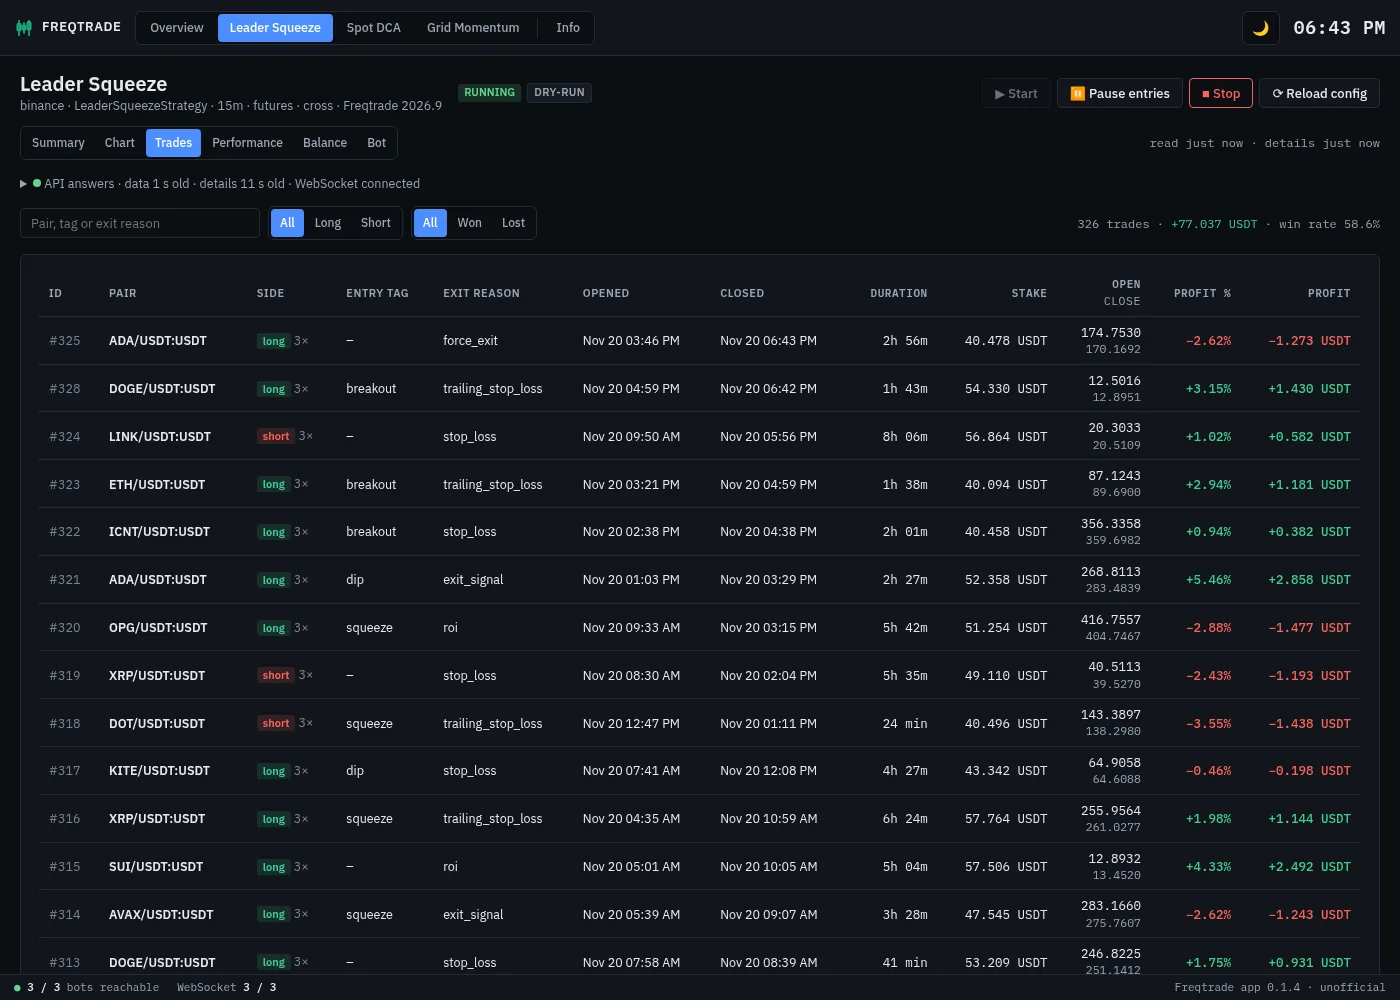
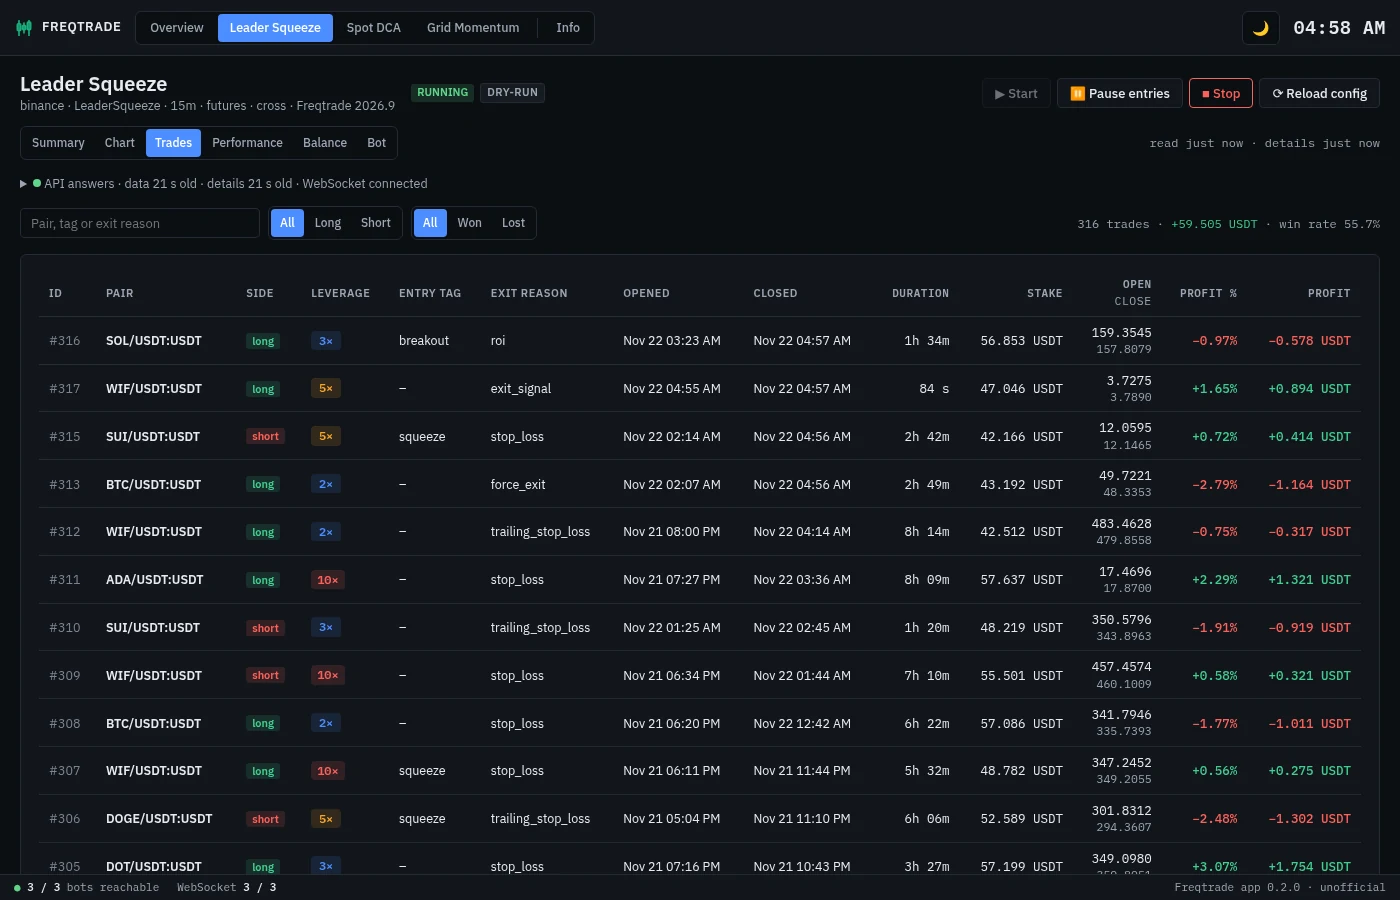
Freqtrade: leverage on the dashboard, profit and win-rate bars, best and worst trade
- Leverage: a column in the open and closed trades of futures bots (coloured from 5x and 10x), the
  position a trade holds (stake times leverage) under its stake, how far the price is from the
  liquidation price, and a Leverage tile on a futures bot's page and on the overview (average and
  highest leverage, the position, the nearest liquidation).
- A profit bar in each open trade, win-rate bars per pair and per entry tag, the best and worst
  closed trade in the performance metrics.
- An empty open-trades list says why: watching for an entry, paused, stopped, or not readable.
- The stand-in bots use different leverage per trade; new screenshots.

Ideas from DaurenNope/fricktrader's dashboard; no code taken.

diff --git a/app-freqtrade/src/web/bot.js b/app-freqtrade/src/web/bot.js
@@ -147,6 +147,17 @@ async function forceExit(tradeId) {
 // ---------------------------------------------------------------------
 // Summary
 // ---------------------------------------------------------------------
+// What the open trades hold with leverage: the position they make, and how much leverage they use
+function leverageTile(open) {
+    if (!open.length) return tile('Leverage', '–', 'no open trades');
+    const exposure = open.reduce((a, t) => a + position(t), 0), stake = open.reduce((a, t) => a + (Number(t.stake_amount) || 0), 0);
+    const levs = open.map(lev), most = Math.max(...levs);
+    const nearest = Math.min(...open.map(liquidationDistance).filter(v => v != null));
+    const cls = most >= 10 || nearest < 0.1 ? 'warn' : '';
+    return tile('Leverage', `${num(stake ? exposure / stake : 1, 1)}×<small> avg · max ${num(most, most % 1 ? 1 : 0)}×</small>`,
+        `position ${escapeHtml(money(exposure, cur(), 0))}${Number.isFinite(nearest) ? ` · liquidation ${plainPct(nearest)}` : ''}`, cls);
+}
+
 function renderSummary() {
     const d = app.bot, data = botData();
     const p = (data.profit_all && data.profit_all.all) || {};
@@ -163,6 +174,7 @@ function renderSummary() {
         tile('Win rate', plainPct(missing(p.winrate) && wl ? p.winning_trades / wl : p.winrate), `${p.winning_trades ?? 0} won · ${p.losing_trades ?? 0} lost`),
         tile('Balance', amountHtml(bal.total_bot, cur(), dec()), `start ${escapeHtml(bm(bal.starting_capital))}`),
         tile('Drawdown', plainPct(p.current_drawdown, 2), `max ${plainPct(p.max_drawdown, 2)} · ${escapeHtml(bm(p.max_drawdown_abs))}`, ddCls),
+        ...(app.bot.config.trading_mode === 'futures' ? [leverageTile(data.status || [])] : []),
         tile('Best pair', `<span style="font-size:18px">${escapeHtml(p.best_pair || '–')}</span>`, p.best_pair ? `${pnl(pct(p.best_pair_profit_ratio), p.best_pair_profit_ratio)} · ${escapeHtml(bsm(p.best_pair_profit_abs))}` : ''),
     ].join('');
     renderCumulative();
@@ -269,30 +281,37 @@ function renderOpenTrades() {
     const canExit = !readOnly() && app.bot.connected;
     const total = trades.reduce((a, t) => a + (missing(t.total_profit_abs) ? t.profit_abs || 0 : t.total_profit_abs), 0);
     document.getElementById('bot-open-hint').innerHTML = trades.length ? `${trades.length} open · ${pnl(escapeHtml(bsm(total)), total)}` : '';
+    const largest = Math.max(0, ...trades.map(t => Math.abs(t.profit_ratio || 0)));
     const rows = trades.map(t => {
         const profit = missing(t.total_profit_abs) ? t.profit_abs : t.total_profit_abs;
         const dist = t.stoploss_current_dist_ratio;
+        const liqDist = liquidationDistance(t);
         return `<tr>
             ${td('#' + t.trade_id, 'muted')}
             ${td(`<b>${escapeHtml(t.pair)}</b>${t.has_open_orders ? ' <span class="badge warn">order open</span>' : ''}`)}
-            ${td(`${sideTag(t.is_short)}${t.leverage && t.leverage !== 1 ? ` <span class="muted">${num(t.leverage, 0)}×</span>` : ''}`)}
+            ${td(sideTag(t.is_short))}
+            ${futures ? td(levTag(t)) : ''}
             ${td(escapeHtml(t.enter_tag || '–'))}
             ${td(`${escapeHtml(fmtDateTime(ms(t.open_timestamp)))}<span class="sub">${escapeHtml(fmtDuration(Date.now() / 1000 - ms(t.open_timestamp)))}</span>`)}
-            ${td(bm(t.stake_amount), 'n')}
+            ${td(futures ? `${bm(t.stake_amount)}<span class="sub">${escapeHtml(bm(position(t)))}</span>` : bm(t.stake_amount), 'n')}
             ${td(`${price(t.open_rate)}<span class="sub">${price(t.current_rate)}</span>`, 'n')}
             ${td(`${price(t.stop_loss_abs)}<span class="sub">${missing(dist) ? '' : pct(dist)}</span>`, 'n')}
-            ${futures ? td(price(t.liquidation_price), 'n') : ''}
-            ${td(pct(t.profit_ratio), 'n ' + pnlClass(t.profit_ratio))}
+            ${futures ? td(`${price(t.liquidation_price)}<span class="sub ${liqDist != null && liqDist < 0.1 ? 'neg' : ''}">${liqDist == null ? '' : plainPct(liqDist) + ' away'}</span>`, 'n') : ''}
+            ${td(pct(t.profit_ratio) + pnlBar(t.profit_ratio, largest), 'n ' + pnlClass(t.profit_ratio))}
             ${td(bsm(profit), 'n ' + pnlClass(profit))}
             ${canExit ? td(`<button type="button" class="btn btn-small" onclick="forceExit(${Number(t.trade_id)})" title="Close this trade now at the market">Exit</button>`) : ''}
         </tr>`;
     });
-    const head = [{label: 'ID'}, {label: 'Pair'}, {label: 'Side'}, {label: 'Entry tag'}, {label: 'Opened'}, {label: 'Stake', n: 1},
+    const head = [{label: 'ID'}, {label: 'Pair'}, {label: 'Side'}, ...(futures ? [{label: 'Leverage'}] : []), {label: 'Entry tag'}, {label: 'Opened'},
+        {label: futures ? 'Stake<span class="sub">position</span>' : 'Stake', n: 1},
         {label: 'Open<span class="sub">now</span>', n: 1}, {label: 'Stop-loss<span class="sub">distance</span>', n: 1}];
-    if (futures) head.push({label: 'Liquidation', n: 1});
+    if (futures) head.push({label: 'Liquidation<span class="sub">distance</span>', n: 1});
     head.push({label: 'Profit %', n: 1}, {label: 'Profit', n: 1});
     if (canExit) head.push({label: ''});
-    document.getElementById('bot-open').innerHTML = table(head, rows, {empty: 'No open trades'});
+    const state = app.bot.config.state;
+    document.getElementById('bot-open').innerHTML = table(head, rows, {empty: 'No open trades',
+        emptySub: !app.bot.connected ? 'The bot can\'t be read right now.' : state === 'running' ? 'The bot is watching the market for its next entry.'
+            : state === 'paused' ? 'The bot is paused: it opens no new trades.' : 'The bot is stopped: it opens no trades.'});
 }
 
 // ---------------------------------------------------------------------
@@ -319,12 +338,14 @@ function renderTrades() {
     const pages = Math.max(1, Math.ceil(list.length / TRADES_PER_PAGE));
     trFilter.page = Math.min(trFilter.page, pages - 1);
     const shown = list.slice(trFilter.page * TRADES_PER_PAGE, (trFilter.page + 1) * TRADES_PER_PAGE);
+    const futures = app.bot.config.trading_mode === 'futures';
     const rows = shown.map(t => {
         const opened = ms(t.open_timestamp), closed = ms(t.close_timestamp);
         return `<tr>
             ${td('#' + t.trade_id, 'muted')}
             ${td(`<b>${escapeHtml(t.pair)}</b>`)}
-            ${td(`${sideTag(t.is_short)}${t.leverage && t.leverage !== 1 ? ` <span class="muted">${num(t.leverage, 0)}×</span>` : ''}`)}
+            ${td(sideTag(t.is_short))}
+            ${futures ? td(levTag(t)) : ''}
             ${td(escapeHtml(t.enter_tag || '–'))}
             ${td(escapeHtml(t.exit_reason || '–'))}
             ${td(escapeHtml(fmtDateTime(opened)))}
@@ -337,7 +358,7 @@ function renderTrades() {
         </tr>`;
     });
     document.getElementById('tr-table').innerHTML = table([
-        {label: 'ID'}, {label: 'Pair'}, {label: 'Side'}, {label: 'Entry tag'}, {label: 'Exit reason'}, {label: 'Opened'}, {label: 'Closed'},
+        {label: 'ID'}, {label: 'Pair'}, {label: 'Side'}, ...(futures ? [{label: 'Leverage'}] : []), {label: 'Entry tag'}, {label: 'Exit reason'}, {label: 'Opened'}, {label: 'Closed'},
         {label: 'Duration', n: 1}, {label: 'Stake', n: 1}, {label: 'Open<span class="sub">close</span>', n: 1}, {label: 'Profit %', n: 1}, {label: 'Profit', n: 1},
     ], rows, {empty: all.length ? 'No trades match' : 'No closed trades yet'});
     document.getElementById('tr-pager').innerHTML = list.length > TRADES_PER_PAGE ? `
@@ -373,6 +394,15 @@ function renderPerformance() {
     renderTags();
 }
 
+// The best and the worst closed trade, from the trades the page holds, in the chosen direction
+function bestWorst() {
+    const list = closedByTime().filter(t => pfDirection === 'all' || (pfDirection === 'short') === Boolean(t.is_short));
+    if (!list.length) return [];
+    const by = list.slice().sort((a, b) => (a.profit_ratio || 0) - (b.profit_ratio || 0));
+    const show = t => `${pnl(pct(t.profit_ratio), t.profit_ratio)} <span class="muted">${escapeHtml(t.pair)} #${t.trade_id} · ${escapeHtml(bsm(t.profit_abs))} · ${escapeHtml(fmtDay(ms(t.close_timestamp)))}</span>`;
+    return [['Best trade', show(by[by.length - 1])], ['Worst trade', show(by[0])]];
+}
+
 function renderPfMetrics() {
     const p = (botData().profit_all || {})[pfDirection] || {};
     const when = v => v ? escapeHtml(fmtDateTime(ms(v))) : '–';
@@ -385,6 +415,7 @@ function renderPfMetrics() {
         ['Profit factor', ratio(p.profit_factor)],
         ['Expectancy', `${escapeHtml(bsm(p.expectancy))} <span class="muted">(ratio ${ratio(p.expectancy_ratio)})</span>`],
         ['Average duration', escapeHtml(p.avg_duration || '–')],
+        ...bestWorst(),
         ['Best pair', p.best_pair ? `${escapeHtml(p.best_pair)} <span class="muted">${pct(p.best_pair_profit_ratio)} · ${escapeHtml(bsm(p.best_pair_profit_abs))}</span>` : '–'],
         ['CAGR', missing(p.cagr) ? '–' : pnl(pct(p.cagr), p.cagr)],
         ['Sharpe / Sortino', `${ratio(p.sharpe)} / ${ratio(p.sortino)}`],
@@ -432,20 +463,26 @@ function avgPct(row) {
 function renderPairs() {
     const pairs = (botData().performance || []).slice().sort((a, b) => (b.profit_abs || 0) - (a.profit_abs || 0));
     const max = Math.max(1e-9, ...pairs.map(p => Math.abs(p.profit_abs || 0)));
+    const won = winsBy(closedByTime(), t => t.pair);
     const rows = pairs.map(p => {
         const share = Math.abs(p.profit_abs || 0) / max * 50;
         const bar = `<div class="cell-bar"><span class="mid"></span><i style="${p.profit_abs >= 0 ? `left:50%;width:${share}%;background:var(--pos)` : `right:50%;width:${share}%;background:var(--neg)`}"></i></div>`;
-        return `<tr>${td(`<b>${escapeHtml(p.pair)}</b>`)}${td(num(p.count), 'n')}${td(pct(avgPct(p)), 'n ' + pnlClass(avgPct(p)))}${td(bsm(p.profit_abs), 'n ' + pnlClass(p.profit_abs))}${td(bar)}</tr>`;
+        const w = won.get(p.pair);
+        return `<tr>${td(`<b>${escapeHtml(p.pair)}</b>`)}${td(num(p.count), 'n')}${td(w ? winBar(w.wins, w.count) : '–', 'n')}${td(pct(avgPct(p)), 'n ' + pnlClass(avgPct(p)))}${td(bsm(p.profit_abs), 'n ' + pnlClass(p.profit_abs))}${td(bar)}</tr>`;
     });
-    document.getElementById('pf-pairs').innerHTML = table([{label: 'Pair'}, {label: 'Trades', n: 1}, {label: 'Avg profit %', n: 1}, {label: 'Profit', n: 1}, {label: ''}],
+    document.getElementById('pf-pairs').innerHTML = table([{label: 'Pair'}, {label: 'Trades', n: 1}, {label: 'Win rate', n: 1}, {label: 'Avg profit %', n: 1}, {label: 'Profit', n: 1}, {label: ''}],
         rows, {empty: 'No closed trades yet'});
 }
 
 function renderTags() {
     const data = botData();
     const entries = (data.entries || []).slice().sort((a, b) => (b.profit_abs || 0) - (a.profit_abs || 0));
-    document.getElementById('pf-entries').innerHTML = table([{label: 'Entry tag'}, {label: 'Trades', n: 1}, {label: 'Avg %', n: 1}, {label: 'Profit', n: 1}],
-        entries.map(e => `<tr>${td(escapeHtml(e.enter_tag || 'Other'))}${td(num(e.count), 'n')}${td(pct(avgPct(e)), 'n ' + pnlClass(avgPct(e)))}${td(bsm(e.profit_abs), 'n ' + pnlClass(e.profit_abs))}</tr>`),
+    const tagWins = winsBy(closedByTime(), t => t.enter_tag || 'Other');
+    document.getElementById('pf-entries').innerHTML = table([{label: 'Entry tag'}, {label: 'Trades', n: 1}, {label: 'Win rate', n: 1}, {label: 'Avg %', n: 1}, {label: 'Profit', n: 1}],
+        entries.map(e => {
+            const w = tagWins.get(e.enter_tag || 'Other');
+            return `<tr>${td(escapeHtml(e.enter_tag || 'Other'))}${td(num(e.count), 'n')}${td(w ? winBar(w.wins, w.count) : '–', 'n')}${td(pct(avgPct(e)), 'n ' + pnlClass(avgPct(e)))}${td(bsm(e.profit_abs), 'n ' + pnlClass(e.profit_abs))}</tr>`;
+        }),
         {empty: data.entries ? 'No entry tags yet' : 'This Freqtrade version doesn\'t report entry tags'});
     const reasons = (data.stats && data.stats.exit_reasons) || {};
     const exits = (data.exits || []).slice().sort((a, b) => (b.count || 0) - (a.count || 0));

diff --git a/app-freqtrade/src/web/overview.js b/app-freqtrade/src/web/overview.js
@@ -84,6 +84,20 @@ function renderOvNotices() {
     document.getElementById('ov-notices').innerHTML = notes.map(([kind, html]) => `<div class="setup-hint ${kind}"><span>${html}</span></div>`).join('');
 }
 
+// The futures bots' open trades together: the position they make with leverage, and the highest leverage in use
+function ovLeverageTile(up) {
+    const futures = up.filter(b => b.config.trading_mode === 'futures');
+    const open = futures.flatMap(b => b.open_trades.map(t => ({...t, cur: b.config.stake_currency})));
+    if (!open.length) return tile('Leverage', '–', `${futures.length} futures ${futures.length === 1 ? 'bot' : 'bots'}, no open trades`);
+    const exposure = byCurrency(futures, b => b.open_trades.reduce((a, t) => a + position(t), 0));
+    const stake = open.reduce((a, t) => a + (Number(t.stake_amount) || 0), 0), weighted = open.reduce((a, t) => a + position(t), 0);
+    const most = Math.max(...open.map(lev));
+    const nearest = Math.min(...open.map(liquidationDistance).filter(v => v != null));
+    return tile('Leverage', `${num(stake ? weighted / stake : 1, 1)}×<small> avg · max ${num(most, most % 1 ? 1 : 0)}×</small>`,
+        `position ${escapeHtml(currencyText(exposure, (v, c) => money(v, c, 0)))}${Number.isFinite(nearest) ? ` · liquidation ${plainPct(nearest)}` : ''}`,
+        most >= 10 || nearest < 0.1 ? 'warn' : '');
+}
+
 function renderOvTiles() {
     const all = overviewBots();
     const up = all.filter(b => b.connected);
@@ -117,6 +131,7 @@ function renderOvTiles() {
         tile('Open profit', pnl(currencyText(openProfit, tileSigned), openProfit.get(main)), 'not yet realised'),
         tile('Win rate', plainPct(wins + losses ? wins / (wins + losses) : null), `${wins} won · ${losses} lost`),
         tile('Closed trades', num(closed), Number.isFinite(first) ? `since ${escapeHtml(fmtDay(first))}` : ''),
+        ...(up.some(b => b.config.trading_mode === 'futures') ? [ovLeverageTile(up)] : []),
     ].join('');
 }
 
@@ -210,23 +225,26 @@ function renderOvEvents() {
 function renderOvOpen() {
     const trades = overviewBots().flatMap(b => b.open_trades.map(t => ({...t, bot: b})))
         .sort((a, b) => (b.open_timestamp || 0) - (a.open_timestamp || 0));
+    const anyFutures = trades.some(t => t.bot.config.trading_mode === 'futures');
     const rows = trades.map(t => {
         const c = t.bot.config, cur = c.stake_currency || '';
         const profit = missing(t.total_profit_abs) ? t.profit_abs : t.total_profit_abs;
         return `<tr onclick="switchTab('bot-${escapeHtml(t.bot.slug)}')">
             ${td(`<span style="color:${botColor(t.bot.slug)}">●</span> ${escapeHtml(t.bot.name)}`)}
             ${td(`<b>${escapeHtml(t.pair)}</b>${t.has_open_orders ? ' <span class="badge warn">order open</span>' : ''}`)}
-            ${td(`${sideTag(t.is_short)}${t.leverage && t.leverage !== 1 ? ` <span class="muted">${num(t.leverage, 0)}×</span>` : ''}`)}
+            ${td(sideTag(t.is_short))}
+            ${anyFutures ? td(c.trading_mode === 'futures' ? levTag(t) : '<span class="muted">spot</span>') : ''}
             ${td(escapeHtml(fmtAgo(ms(t.open_timestamp))))}
-            ${td(money(t.stake_amount, cur, c.stake_currency_decimals), 'n')}
+            ${td(c.trading_mode === 'futures' ? `${money(t.stake_amount, cur, c.stake_currency_decimals)}<span class="sub">${escapeHtml(money(position(t), cur, c.stake_currency_decimals))}</span>` : money(t.stake_amount, cur, c.stake_currency_decimals), 'n')}
             ${td(pct(t.profit_ratio), 'n ' + pnlClass(t.profit_ratio))}
             ${td(signedMoney(profit, cur, c.stake_currency_decimals), 'n ' + pnlClass(profit))}
         </tr>`;
     });
     document.getElementById('ov-open-hint').textContent = trades.length ? `${trades.length} on ${new Set(trades.map(t => t.bot.slug)).size} bots` : '';
     document.getElementById('ov-open').innerHTML = table([
-        {label: 'Bot'}, {label: 'Pair'}, {label: 'Side'}, {label: 'Opened'}, {label: 'Stake', n: 1}, {label: 'Profit %', n: 1}, {label: 'Profit', n: 1},
-    ], rows, {cls: 'hover', empty: 'No open trades'});
+        {label: 'Bot'}, {label: 'Pair'}, {label: 'Side'}, ...(anyFutures ? [{label: 'Leverage'}] : []), {label: 'Opened'},
+        {label: anyFutures ? 'Stake<span class="sub">position</span>' : 'Stake', n: 1}, {label: 'Profit %', n: 1}, {label: 'Profit', n: 1},
+    ], rows, {cls: 'hover', empty: 'No open trades', emptySub: 'The running bots are watching the market for their next entries.'});
 }
 
 // ---------------------------------------------------------------------

diff --git a/app-freqtrade/src/web/core.js b/app-freqtrade/src/web/core.js
@@ -120,10 +120,45 @@ function sideTag(isShort) {
 }
 function table(head, rows, opts) {
     opts = opts || {};
-    if (!rows.length) return `<div class="empty-state">${escapeHtml(opts.empty || 'Nothing here yet')}</div>`;
+    if (!rows.length) return `<div class="empty-state">${escapeHtml(opts.empty || 'Nothing here yet')}${opts.emptySub ? `<span class="empty-sub">${escapeHtml(opts.emptySub)}</span>` : ''}</div>`;
     const th = head.map(h => `<th class="${h.n ? 'n' : ''}">${h.label}</th>`).join('');
     const foot = opts.foot ? `<tfoot><tr>${opts.foot.map((c, i) => `<td class="${head[i] && head[i].n ? 'n' : ''}">${c}</td>`).join('')}</tr></tfoot>` : '';
     return `<table class="data ${opts.cls || ''}"><thead><tr>${th}</tr></thead><tbody>${rows.join('')}</tbody>${foot}</table>`;
+}
+// Leverage: "3×", "1×" for none; the position a stake makes with it; how far the price may still go
+const lev = t => Number(t.leverage) > 0 ? Number(t.leverage) : 1;
+function levTag(t) {
+    const x = lev(t);
+    const cls = x >= 10 ? 'lev high' : x >= 5 ? 'lev mid' : x > 1 ? 'lev' : 'lev none';
+    return `<span class="${cls}" title="Leverage">${num(x, x % 1 ? 1 : 0)}×</span>`;
+}
+const position = t => (Number(t.stake_amount) || 0) * lev(t);
+function liquidationDistance(t) {
+    const liq = Number(t.liquidation_price), now = Number(t.current_rate);
+    if (!(liq > 0) || !(now > 0)) return null;
+    return t.is_short ? (liq - now) / now : (now - liq) / now;
+}
+// A small bar for a share of the largest value: green for gains, red for losses
+function pnlBar(value, largest) {
+    if (missing(value) || !(largest > 0)) return '';
+    return `<span class="pnl-bar"><i class="${value >= 0 ? 'pos' : 'neg'}" style="width:${Math.max(4, Math.min(100, Math.abs(value) / largest * 100))}%"></i></span>`;
+}
+// Win rate with a bar under it
+function winBar(wins, count) {
+    if (!count) return '–';
+    const rate = wins / count;
+    return `${plainPct(rate)}<span class="win-bar"><i style="width:${rate * 100}%"></i></span>`;
+}
+// Won and lost per key over the closed trades the page holds (by pair, by entry tag)
+function winsBy(trades, keyOf) {
+    const out = new Map();
+    for (const t of trades) {
+        const key = keyOf(t), row = out.get(key) || {wins: 0, count: 0};
+        row.count += 1;
+        if ((t.profit_abs || 0) > 0) row.wins += 1;
+        out.set(key, row);
+    }
+    return out;
 }
 function td(html, cls) { return `<td class="${cls || ''}">${html}</td>`; }
 

diff --git a/app-freqtrade/src/web/app.css b/app-freqtrade/src/web/app.css
@@ -483,3 +483,18 @@ table.data .was { display: block; }
 .tile .d { white-space: normal; overflow: visible; text-overflow: clip; overflow-wrap: anywhere; }
 .chart-title { flex-wrap: wrap; }
 .chart-title .hint { white-space: normal; }
+
+/* Leverage: the more of it, the more it stands out */
+.lev { display: inline-block; min-width: 30px; padding: 1px 6px; border-radius: 4px; font-family: var(--mono, monospace); font-size: 12px; font-weight: 600; text-align: center;
+    color: var(--primary-color); background: color-mix(in srgb, var(--primary-color) 12%, transparent); }
+.lev.none { color: var(--secondary-text-color); background: transparent; font-weight: 400; }
+.lev.mid { color: var(--warning-color); background: color-mix(in srgb, var(--warning-color) 14%, transparent); }
+.lev.high { color: var(--danger-color); background: color-mix(in srgb, var(--danger-color) 14%, transparent); }
+
+/* A profit bar under a trade's profit, and a win-rate bar under a win rate */
+.pnl-bar, .win-bar { display: block; height: 4px; margin-top: 4px; border-radius: 2px; background: var(--divider-color); overflow: hidden; }
+.pnl-bar { margin-left: auto; width: 64px; }
+.pnl-bar i, .win-bar i { display: block; height: 100%; border-radius: 2px; }
+.pnl-bar i.pos { background: var(--pos); margin-left: 0; } .pnl-bar i.neg { background: var(--neg); margin-left: auto; }
+.win-bar { margin-left: auto; width: 56px; } .win-bar i { background: var(--primary-color); }
+.empty-sub { display: block; margin-top: 4px; font-size: 12px; opacity: 0.75; }

diff --git a/app-freqtrade/tools/mock_freqtrade.py b/app-freqtrade/tools/mock_freqtrade.py
@@ -68,7 +68,8 @@ class MockBot:
             "base_currency": pair.split("/")[0],
             "quote_currency": "USDT",
             "is_short": short,
-            "leverage": 3.0 if self.futures else 1.0,
+            # Futures bots use different leverage per trade, so the dashboard shows the range
+            "leverage": self.rng.choice((2.0, 3.0, 3.0, 5.0, 10.0)) if self.futures else 1.0,
             "enter_tag": self.rng.choice(TAGS),
             "open_timestamp": int(t * 1000),
             "open_date": iso(t),
@@ -111,7 +112,10 @@ class MockBot:
             stop_loss_abs=trade["open_rate"] * 0.9,
             stop_loss_pct=-10.0,
             stoploss_current_dist_ratio=-0.1 - ratio,
-            liquidation_price=trade["open_rate"] * (0.7 if not trade["is_short"] else 1.3) if self.futures else None,
+            # Roughly where an exchange liquidates: most of the margin gone, so nearer with more leverage
+            liquidation_price=trade["open_rate"] * (1 + (0.9 if trade["is_short"] else -0.9) / trade["leverage"])
+            if self.futures
+            else None,
             has_open_orders=False,
             nr_of_successful_entries=1,
             realized_profit=0.0,

diff --git a/app-freqtrade/src/bot.py b/app-freqtrade/src/bot.py
@@ -718,6 +718,8 @@ class BotClient:
                         "pair",
                         "is_short",
                         "leverage",
+                        "liquidation_price",
+                        "current_rate",
                         "open_timestamp",
                         "stake_amount",
                         "profit_ratio",
